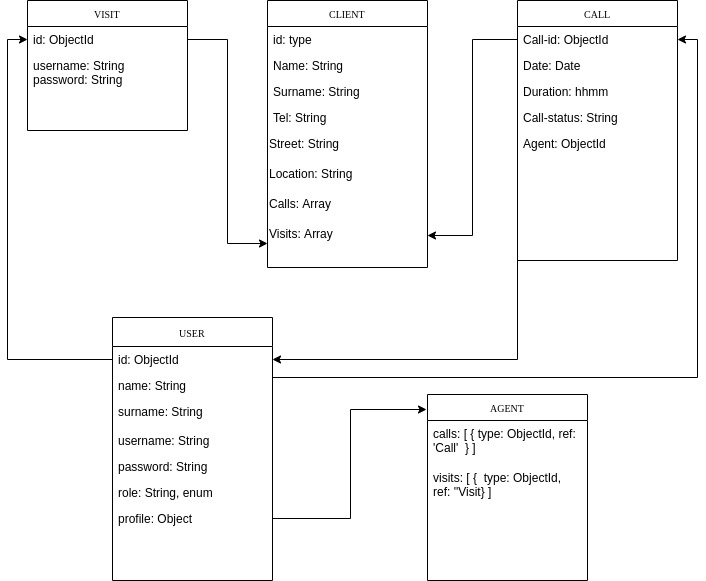
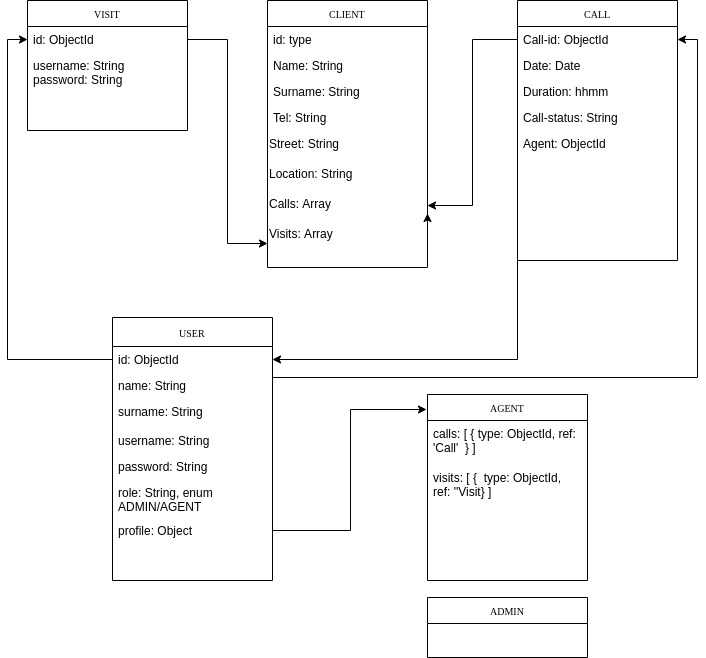
update doc

diff --git a/staff/noli-pascual/sky-call/sky-call-app/documentation/README.md b/staff/noli-pascual/sky-call/sky-call-app/documentation/README.md
@@ -54,16 +54,24 @@ The main features included in this application are:
 
 ### Data Model
 
-![Data Model](data-model.jpg)
+![data-model](data-model.jpg)
 
 ## Installation
 
 To install this project go to [SkyCall](https://github.com/manoli2013/skycall.git) and clone it to your local repository.
 
 
-## Credits
+## TO DO
 
-This project has been developed by [Noli Pascual](https://github.com/manoli2013).
+1. Agent user can:
+
+    - work in team, sharing data 
+    - connect call to switchboard
+
+2. Admin user can:
+
+    - see further detail reports
+    - chat with users
 
 
 
